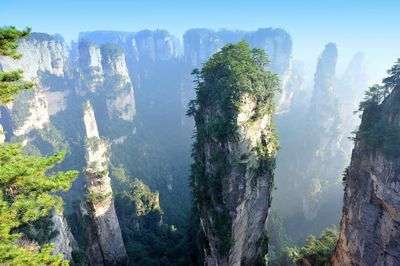
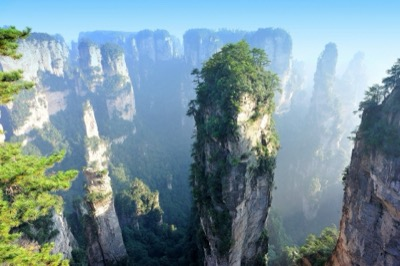
fix: encode srcset URLs + fix missing images
- Wrap srcset URLs in encodeURI() to prevent browser parsing
  errors on Chinese filenames with spaces/special chars
- Replace non-existent gal-spring.jpg with exp-hiking-2.jpg
  in exp-detail.html hiking gallery
- Add news-avatar.jpg thumbnails (thumb/ and md/) that were
  missing, causing 404 on homepage news card

diff --git a/index.html b/index.html
@@ -1849,7 +1849,7 @@
         var full = wp(item.img);
         html += '<a href="exp-detail.html?id=' + escapeHtml(item.id) + '" class="exp-card">';
         html += '<div class="exp-img"><img src="' + escapeHtml(thumb) + '" ' +
-                'srcset="' + escapeHtml(thumb) + ' 400w, ' + escapeHtml(mid) + ' 1200w, ' + escapeHtml(full) + ' 2400w" ' +
+                'srcset="' + encodeURI(escapeHtml(thumb)) + ' 400w, ' + encodeURI(escapeHtml(mid)) + ' 1200w, ' + encodeURI(escapeHtml(full)) + ' 2400w" ' +
                 'sizes="(max-width: 640px) 100vw, (max-width: 1024px) 50vw, 25vw" ' +
                 'alt="' + escapeHtml(item.titleEn) + '" ' +
                 'loading="lazy" decoding="async" width="400" height="267"></div>';
@@ -2001,7 +2001,7 @@
         var mdSrc = wp(item.img.replace('assets/images/', 'assets/images/md/'));
         html += '<div class="gallery-item" onclick="openLightbox(' + index + ')">';
         html += '<img src="' + escapeHtml(thumbSrc) + '" ' +
-                'srcset="' + escapeHtml(thumbSrc) + ' 400w, ' + escapeHtml(mdSrc) + ' 1200w, ' + escapeHtml(wp(item.img)) + ' 2400w" ' +
+                'srcset="' + encodeURI(escapeHtml(thumbSrc)) + ' 400w, ' + encodeURI(escapeHtml(mdSrc)) + ' 1200w, ' + encodeURI(escapeHtml(wp(item.img))) + ' 2400w" ' +
                 'sizes="(max-width: 640px) 100vw, (max-width: 1024px) 50vw, 33vw" ' +
                 'alt="' + escapeHtml(item.titleEn) + '" ' +
                 'loading="lazy" decoding="async" width="400" height="267">';

diff --git a/exp-detail.html b/exp-detail.html
@@ -434,7 +434,7 @@
     var allExpData = [
       {
         id: 'hiking',
-        images: ['assets/images/exp-hiking.jpg', 'assets/images/gal-stream.jpg', 'assets/images/gal-spring.jpg'],
+        images: ['assets/images/exp-hiking.jpg', 'assets/images/gal-stream.jpg', 'assets/images/exp-hiking-2.jpg'],
         badge: 'Adventure',
         badgeZh: '探险',
         title: 'Hiking Adventure',
